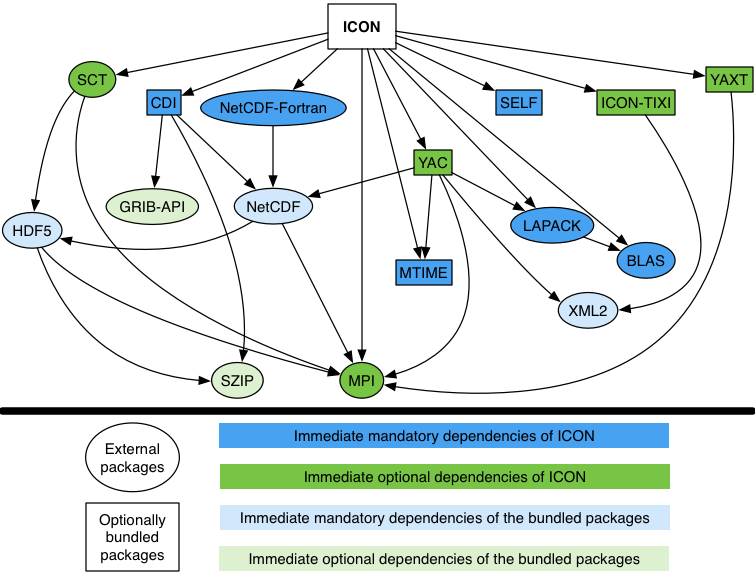
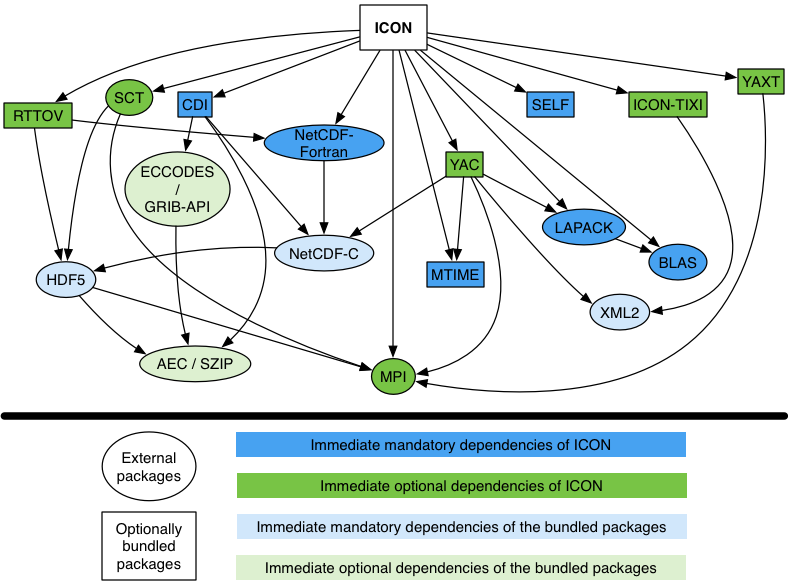
DOC: update.

diff --git a/README.md b/README.md
@@ -3,43 +3,62 @@
 This is a branch of ICON v2.4.0 with a new building system.
 
 ## Dependencies
-Fig. 1 shows a partial dependency tree of the model. A dependency can be mandatory or optional and some of the dependencies are provided together
-with the source code of ICON (bundled) as git submodules (see [.gitmodules](/.gitmodules)), which might make it easier to build the model.
+Fig. 1 shows a partial dependency tree of the model. A dependency can be
+mandatory or optional and some of the dependencies are provided together
+with the source code of ICON (bundled) as git submodules (see
+[.gitmodules](/.gitmodules)), which might make it easier to build the model.
 
 <a name="icon-depgraph"/>![ICON dependency tree](/doc/config/icon-config-doc-depgraph.png)
 
 *Fig. 1. ICON dependency tree*</a>
 
-Run the following command to see the list of possible configuration options and their default values:
+Run the following command to see the list of possible configuration options and
+their default values:
 ```console
     $ ./configure --help
 ```
 
-The list of the required libraries (packages) depends on the selected options (see [Table 1](#icon-deptable)). To make the configuration process more transparent,
-the configure script is implemented without arguments `--with-package` that would accept paths to the installation directories of the packages,
-which would be used to extend the corresponding compiler flags. Instead, all the libraries need to be provided as `FCFLAGS`, `LDFLAGS` and `LIBS`.
-Some of the packages required by ICON have common dependencies, which might make it difficult to specify the libraries in the right topological order.
-For that reason, we provide the following table. We recommend to specify the `LIBS` argument according to the order indicated in the table, and the rest of the
-compiler flag arguments (i.e. `FCFLAGS`, `CPPFLAGS`, `LDFLAGS`) in the reversed order. You can find configuration examples in [/config/examples](/config/examples).
+The list of the required libraries (packages) depends on the selected options
+(see [Table 1](#icon-deptable)). To make the configuration process more
+transparent, the configure script is implemented without arguments
+`--with-package` that would accept paths to the installation directories of the
+packages, which would be used to extend the corresponding compiler flags.
+Instead, all the libraries need to be provided as `FCFLAGS`, `LDFLAGS` and
+`LIBS`. Some of the packages required by ICON have common dependencies, which
+might make it difficult to specify the libraries in the right topological
+order. For that reason, we provide the following table. We recommend to specify
+the `LIBS` argument according to the order indicated in the table, and the rest
+of the compiler flag arguments (i.e. `FCFLAGS`, `CPPFLAGS`, `LDFLAGS`) in the
+reversed order. You can find configuration examples in
+[/config/examples](/config/examples).
+
+Upon successful configuration, the building can be started with the standard
+`make` command:
+```console
+    $ make -j8
+```
 
 <a name="icon-deptable">*Table 1. ICON dependencies*</a>
 
 | Linking order | Package | Repo | Dependency condition | Required flags |
 | :---: | :---: | :---: | :---: | :---: |
 |  1 | [SELF](https://code.mpimet.mpg.de/projects/self-standard-extendible-library-for-fortran) | git@git.mpimet.mpg.de:libself.git (branch: `libself-icon_v0.2-config`) | `--with-external-self` | `FCFLAGS='-I/path/to/libself/include' LDFLAGS='-L/path/to/libself/lib' LIBS='-lself'` |
-|  2 | ICON-TIXI (a patched version of [TIXI](https://github.com/DLR-SC/tixi)) | git@gitlab.dkrz.de:icon-new-config/icon-tixi.git (branch: new-config-release) | `--enable-art --with-external-tixi` | `FCFLAGS='-I/path/to/tixi/include' LDFLAGS='-L/path/to/tixi/lib' LIBS='-licon_tixi'` |
+|  2 | ICON-TIXI (a modified version of [TIXI](https://github.com/DLR-SC/tixi)) | git@gitlab.dkrz.de:icon-new-config/icon-tixi.git (branch: new-config-release) | `--enable-art --with-external-tixi` | `FCFLAGS='-I/path/to/tixi/include' LDFLAGS='-L/path/to/tixi/lib' LIBS='-licon_tixi'` |
 |  3 | [YAC](https://doc.redmine.dkrz.de/YAC/html/) | git@gitlab.dkrz.de:icon-new-config/YAC-dev.git (branch: `new-config-release`) | `--enable-coupling --with-external-yac` | `FCFLAGS='-I/path/to/yac/include' LDFLAGS='-L/path/to/yac/lib -L/path/to/libxml2/lib -L/path/to/netcdf/lib' LIBS='-lyac -lxml2 -lnetcdf'` |
-|  4 | [XML2](http://www.xmlsoft.org/) | | `--enable-coupling --without-external-yac` or `--enable-art --without-external-tixi` | `CPPFLAGS='-I/path/to/libxml2/include/libxml2' LDFLAGS='-L/path/to/libxml2/lib' LIBS='-lxml2'` |
+|  4 | [XML2](http://www.xmlsoft.org/) | | `--enable-coupling` or `--enable-art --without-external-tixi` | `CPPFLAGS='-I/path/to/libxml2/include/libxml2' LDFLAGS='-L/path/to/libxml2/lib' LIBS='-lxml2'` |
 |  5 | [LAPACK](http://www.netlib.org/lapack/) (or analogue) | | mandatory | `LDFLAGS='-L/path/to/lapack/lib' LIBS='-llapack'` (depends on the implementation) |
 |  6 | [BLAS](http://www.netlib.org/blas/) (or analogue) | | mandatory | `LDFLAGS='-L/path/to/blas/lib' LIBS='-lblas'` (depends on the implementation) |
-|  7 | [MTIME](https://code.mpimet.mpg.de/projects/mtime) | git@git.mpimet.mpg.de:libmtime.git (branch: `m300488/build_update_master`) | `--with-external-mtime` | `FCFLAGS='-I/path/to/mtime/include' LDFLAGS='-L/path/to/mtime/lib' LIBS='-lmtime'` |
-|  8 | [NetCDF-Fortran](https://www.unidata.ucar.edu/software/netcdf/docs-fortran/) | | mandatory | `FCFLAGS='-I/path/to/netcdf-fortran/include' LDFLAGS='-L/path/to/netcdf-fortran/lib' LIBS='-lnetcdff'` |
-|  9 | [CDI](https://code.mpimet.mpg.de/projects/cdi/) | git@git.mpimet.mpg.de:libcdi.git (branch: `cdi-1.8.x`) | `--with-external-cdi` | `FCFLAGS='-I/path/to/libcdi/include' LDFLAGS='-L/path/to/libcdi/lib' LIBS='-lcdi_f2003 -lcdi'` |
-| 10 | [NetCDF-C](https://www.unidata.ucar.edu/software/netcdf/docs/) | | `--without-external-cdi` or `--enable-coupling --without-external-yac` | `CPPFLAGS='-I/path/to/netcdf/include' LDFLAGS='-L/path/to/netcdf/lib' LIBS='-lnetcdf'` |
-| 11 | [ecCodes](https://confluence.ecmwf.int/display/ECC) or [GRIB-API](https://confluence.ecmwf.int/display/GRIB/Home) | | `--enable-grib2 --without-external-cdi` | `CPPFLAGS='-I/path/to/eccodes/include' LDFLAGS='-L/path/to/eccodes/lib' LIBS='-leccodes'` (or `LIBS='-lgrib_api'`) |
-| 12 | [YAXT](https://www.dkrz.de/redmine/projects/yaxt/wiki) | git@gitlab.dkrz.de:icon-new-config/yaxt.git (branch: `release-0.7.0-patched`) | `--enable-yaxt --with-external-yaxt` | `FCFLAGS='-I/path/to/yaxt/include' LDFLAGS='-L/path/to/yaxt/lib' LIBS='-lyaxt'` |
-| 13 | [SCT](https://code.mpimet.mpg.de/projects/performance-monitoring/wiki/Access_of_stored_performance_data) | git@git.mpimet.mpg.de:sct.git (branch: `master`) | `--enable-sct` | `FCFLAGS='-I/path/to/sct/include' LDFLAGS='-L/path/to/sct/lib' LIBS='-lsct'` |
-| 14 | [MPI](https://www.mpi-forum.org/) (Fortran interface) | | `--enable-mpi` or `--enable-yaxt --without-external-yaxt` | `FC='/path/to/mpi/bin/mpif90'` or `FCFLAGS='-I/path/to/mpi/include' LDFLAGS='-L/path/to/mpi/lib' LIBS='-lmpifort -lmpi'` (depends on the implementation) |
-| 15 | [MPI](https://www.mpi-forum.org/) (C interface) | | `--enable-mpi --enable-coupling --without-external-yac` or `--enable-yaxt --without-external-yaxt` | `CC=/path/to/mpi/bin/mpicc` or `CPPFLAGS=-I/path/to/mpi/include LDFLAGS='-L/path/to/mpi/lib' LIBS='-lmpi'` (depends on the implementation) |
+|  7 | [MTIME](https://code.mpimet.mpg.de/projects/mtime) | git@git.mpimet.mpg.de:libmtime.git (branch: `m300488/build_update_master`) | `--with-external-mtime` or `--without-external-mtime --enable-coupling --with-external-yac` | `FCFLAGS='-I/path/to/mtime/include' CPPFLAGS='-I/path/to/mtime/include' LDFLAGS='-L/path/to/mtime/lib' LIBS='-lmtime'` |
+|  8 | [CDI](https://code.mpimet.mpg.de/projects/cdi/) | git@git.mpimet.mpg.de:libcdi.git (branch: `cdi-1.8.x`) | `--with-external-cdi` | `FCFLAGS='-I/path/to/libcdi/include' LDFLAGS='-L/path/to/libcdi/lib' LIBS='-lcdi_f2003 -lcdi'` |
+|  9 | [ECCODES](https://confluence.ecmwf.int/display/ECC) or [GRIB-API](https://confluence.ecmwf.int/display/GRIB/Home) | | `--enable-grib2 --without-external-cdi` or `--enable-yaxt --without-external-yaxt --with-external-cdi` (as a workaround for YAXT, which helps only if `--enable-rpaths`, otherwise, requires setting RPATH flags manually) | `CPPFLAGS='-I/path/to/eccodes/include' LDFLAGS='-L/path/to/eccodes/lib' LIBS='-leccodes'` (or `LIBS='-lgrib_api'`) |
+| 10 | [YAXT](https://www.dkrz.de/redmine/projects/yaxt/wiki) | git@gitlab.dkrz.de:icon-new-config/yaxt.git (branch: `release-0.7.0-patched`) | `--enable-yaxt --with-external-yaxt` | `FCFLAGS='-I/path/to/yaxt/include' LDFLAGS='-L/path/to/yaxt/lib' LIBS='-lyaxt'` |
+| 11 | [SCT](https://code.mpimet.mpg.de/projects/performance-monitoring/wiki/Access_of_stored_performance_data) | git@git.mpimet.mpg.de:sct.git (branch: `master`) | `--enable-sct` | `FCFLAGS='-I/path/to/sct/include' LDFLAGS='-L/path/to/sct/lib' LIBS='-lsct'` |
+| 12 | RTTOV (a modified? version of [RTTOV](https://www.nwpsaf.eu/site/software/rttov/)) | | `--enable-rttov` | `FCFLAGS='-I/path/to/rttov/include' LDFLAGS='-L/path/to/rttov/lib' LIBS='-lradiance -lrttov10.2'` |
+| 13 | [NetCDF-Fortran](https://www.unidata.ucar.edu/software/netcdf/docs-fortran/) | | mandatory | `FCFLAGS='-I/path/to/netcdf-fortran/include' LDFLAGS='-L/path/to/netcdf-fortran/lib' LIBS='-lnetcdff'` |
+| 14 | [NetCDF-C](https://www.unidata.ucar.edu/software/netcdf/docs/) | | `--without-external-cdi` or `--enable-coupling` | `CPPFLAGS='-I/path/to/netcdf/include' LDFLAGS='-L/path/to/netcdf/lib' LIBS='-lnetcdf'` |
+| 15 | [HDF5](https://support.hdfgroup.org/HDF5/) | | static linking | `LDFLAGS='-L/path/to/hdf5/lib' LIBS='-lhdf5_hl -lhdf5'` |
+| 16 | [AEC](https://gitlab.dkrz.de/k202009/libaec) or [SZIP](https://support.hdfgroup.org/doc_resource/SZIP/) | | static linking | `LDFLAGS='-L/path/to/aec/lib' LIBS='-laec'` (or `LIBS='-lsz'`) |
+| 17 | [MPI](https://www.mpi-forum.org/) (Fortran interface) | | `--enable-mpi` or `--enable-yaxt --without-external-yaxt` or `--enable-coupling --without-external-yac` (both mpif.h and mpi.mod interfaces are required) | `FC='/path/to/mpi/bin/mpif90'` or `FCFLAGS='-I/path/to/mpi/include' LDFLAGS='-L/path/to/mpi/lib' LIBS='-lmpifort -lmpi'` (depends on the implementation) |
+| 18 | [MPI](https://www.mpi-forum.org/) (C interface) | | `--enable-coupling` or `--enable-yaxt --without-external-yaxt` | `CC=/path/to/mpi/bin/mpicc` or `CPPFLAGS=-I/path/to/mpi/include LDFLAGS='-L/path/to/mpi/lib' LIBS='-lmpi'` (depends on the implementation) |
 
 
